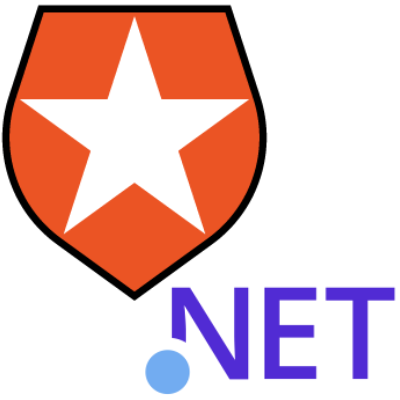
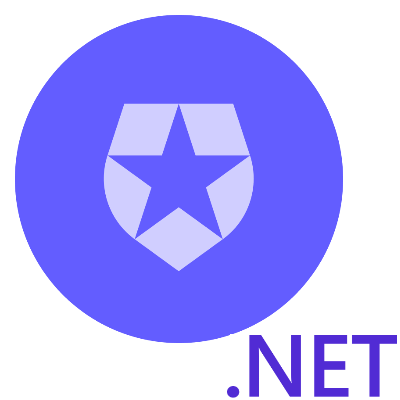
v1.4.1 (#7)
* Update README.md

* Update README.md

* Update README.md

* Dependency update

* Remove deepcode badge

* Suppress snyk vun

* Add icon path

* Bump version

diff --git a/src/Auth0Net.DependencyInjection/Auth0Extensions.cs b/src/Auth0Net.DependencyInjection/Auth0Extensions.cs
@@ -31,8 +31,9 @@ namespace Microsoft.Extensions.DependencyInjection
             if (services.Any(x => x.ServiceType == typeof(IAuthenticationApiClient)))
                 throw new InvalidOperationException("AuthenticationApiClient has already been registered!");
 
-            services.AddOptions<Auth0Configuration>().Validate(x => !string.IsNullOrWhiteSpace(x.Domain), "Auth0 Domain cannot be null or empty");
-            services.Configure<Auth0Configuration>(x=> x.Domain = domain);
+            services.AddOptions<Auth0Configuration>()
+                .Configure(x => x.Domain = domain)
+                .Validate(x => !string.IsNullOrWhiteSpace(x.Domain), "Auth0 Domain cannot be null or empty");
 
             services.AddScoped<IAuthenticationApiClient, InjectableAuthenticationApiClient>();
             return services.AddHttpClient<IAuthenticationConnection, HttpClientAuthenticationConnection>();
@@ -53,10 +54,10 @@ namespace Microsoft.Extensions.DependencyInjection
                 throw new InvalidOperationException("AuthenticationApiClient has already been registered!");
 
             services.AddOptions<Auth0Configuration>()
+                .Configure(config)
                 .Validate(x => !string.IsNullOrWhiteSpace(x.ClientId) && !string.IsNullOrWhiteSpace(x.Domain) && !string.IsNullOrWhiteSpace(x.ClientSecret),
                     "Auth0 Configuration cannot have empty values");
             
-            services.Configure(config);
             services.AddLazyCache();
 
             services.AddScoped<IAuth0TokenCache, Auth0TokenCache>();

diff --git a/README.md b/README.md
@@ -1,10 +1,9 @@
 # Auth0.NET Dependency Injection Extensions
 ![.NET Core Build & Test](https://github.com/Hawxy/Auth0Net.DependencyInjection/workflows/.NET%20Core%20Build%20&%20Test/badge.svg)
 [![NuGet](https://img.shields.io/nuget/v/Auth0Net.DependencyInjection.svg?style=flat-square)](https://www.nuget.org/packages/Auth0Net.DependencyInjection)
-[![deepcode](https://www.deepcode.ai/api/gh/badge?key=eyJhbGciOiJIUzI1NiIsInR5cCI6IkpXVCJ9.eyJwbGF0Zm9ybTEiOiJnaCIsIm93bmVyMSI6Ikhhd3h5IiwicmVwbzEiOiJBdXRoME5ldC5EZXBlbmRlbmN5SW5qZWN0aW9uIiwiaW5jbHVkZUxpbnQiOmZhbHNlLCJhdXRob3JJZCI6MjczMDcsImlhdCI6MTYxNjczOTcyNH0.4StSyQGHntE1YwSsXjjvRtfJJRSvyUNn43YWT1_FHkU)](https://www.deepcode.ai/app/gh/Hawxy/Auth0Net.DependencyInjection/_/dashboard?utm_content=gh%2FHawxy%2FAuth0Net.DependencyInjection)
 
 <h1 align="center">
-<img align="center" src="src/Auth0Net.DependencyInjection/Images/icon.png" height="130px" />
+<img align="center" src="https://user-images.githubusercontent.com/975824/128343470-8d97e39d-ff8a-4daf-8ebf-f9039a46abd6.png" height="130px" />
 </h1>
 
 Integrating [Auth0.NET](https://github.com/auth0/auth0.net) into your project whilst attempting to follow idiomatic .NET Core conventions can be cumbersome and involve a sizable amount of boilerplate shared between projects. 
@@ -33,7 +32,7 @@ Install-Package Auth0Net.DependencyInjection
  
  ### Authentication Client Only
  
-![Auth0 Authentication](docs/images/Auth0Authentication.png?raw=true)
+![Auth0Authentication](https://user-images.githubusercontent.com/975824/128319560-4b859296-44f5-4219-a1b3-8255bf29f1b3.png)
  
 If you're simply using the `AuthenticationApiClient` and nothing else, you can call `AddAuth0AuthenticationClientCore` and pass in your Auth0 Domain. This integration is lightweight and does not support any other features of this library. 
  
@@ -57,7 +56,8 @@ public class AuthController : ControllerBase
 
 ### Authentication Client + Management Client 
  
-![Auth0 Authentication & Management](docs/images/Auth0Authentication+Management.png?raw=true)
+![Auth0AuthenticationAndManagement](https://user-images.githubusercontent.com/975824/128319611-9083d473-191d-4593-ad0f-9669335dbb62.png)
+
  
 Add the `AuthenticationApiClient` with `AddAuth0AuthenticationClient`, and provide a [machine-to-machine application](https://auth0.com/docs/applications/set-up-an-application/register-machine-to-machine-applications) configuration that will be consumed by the Management Client, Token Cache and IHttpClientBuilder integrations. This extension **must** be called before using any other extensions within this library:
  
@@ -94,7 +94,7 @@ public class MyAuth0Service : IAuth0Service
 
 ### With HttpClient and/or Grpc Services
 
-![Auth0 All](docs/images/Auth0All.png?raw=true)
+![Auth0AuthenticationAll](https://user-images.githubusercontent.com/975824/128319653-418e0e72-2ddf-4d02-9544-1d60bd523321.png)
 
 **Note:** This feature relies on `services.AddAuth0AuthenticationClient(config => ...)` being called and configured as outlined in the previous scenario. 
 
